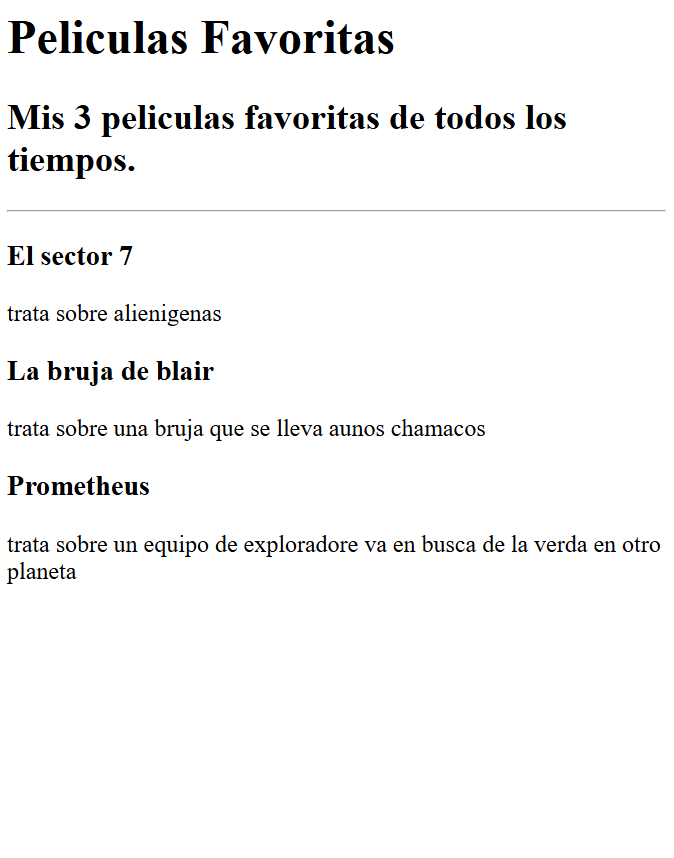
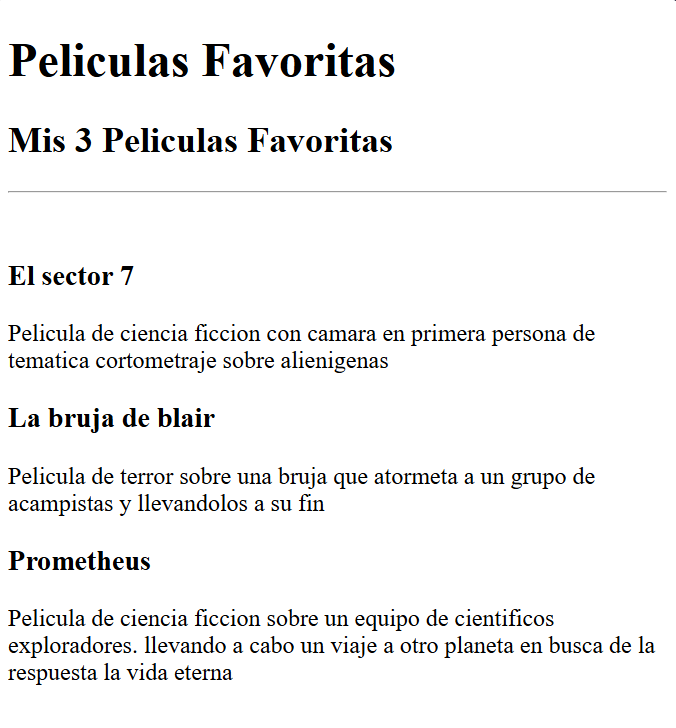
Add files via upload

diff --git a/public/movies1.html b/public/movies1.html
@@ -1,9 +1,20 @@
-<h1>Peliculas Favoritas</h1>
-<h2>Mis 3 Peliculas Favoritas</h2>
-<hr />
-<h3>El sector 7</h3>
-<p>trata sobre alienigenas</p>
-<h3>La bruja de blair</h3>
-<p>trata sobre una bruja que lleva aunos chamacos</p>
-<h3>Prometheus</h3>
-<p>trata sobre un equipo de exploradore va en busca de la verdad en otro planeta</p>
+<!DOCTYPE html>
+<html lang="en">
+<head>
+    <meta charset="UTF-8">
+    <meta name="viewport" content="width=device-width, initial-scale=1.0">
+    <title>Peliculas</title>
+</head>
+<body>
+    <h1>Peliculas Favoritas</h1>
+    <h2>Mis 3 Peliculas Favoritas</h2>
+    <hr />
+    <br />
+    <h3>El sector 7</h3>
+    <p>Pelicula de ciencia ficcion con camara en primera persona de tematica cortometraje sobre alienigenas </p>
+    <h3>La bruja de blair</h3>
+    <p>Pelicula de terror sobre una bruja que atormeta a un grupo de acampistas y llevandolos a su fin</p>
+    <h3>Prometheus</h3>
+    <p>Pelicula de ciencia ficcion sobre un equipo de cientificos exploradores. llevando a cabo un viaje a otro planeta en busca de la respuesta la vida eterna</p>
+</body>
+</html>

diff --git a/public/birthday-invite1.html b/public/birthday-invite1.html
@@ -1,10 +1,21 @@
-<h1>Invitación de Cumpleaños</h1>
-<h2>¡Estás invitado a mi fiesta de cumpleaños!</h2>
-<hr />
-<h3>Detalles del Evento</h3>
-<ul>
-    <li>Fecha: 23 de abril 2007</li>
-    <li>lugar: mi casa</li>
-    <li>Hora: 7:00 PM</li>
-</ul>
-<h2>¡Espero verte allí!</h2>
+<!DOCTYPE html>
+<html lang="es">
+<head>
+    <meta charset="UTF-8">
+    <meta name="viewport" content="width=device-width, initial-scale=1.0">
+    <title>cumpleaños</title>
+</head>
+<body>
+    <h1>Invitación de Cumpleaños</h1>
+    <h2>¡Estás invitado a mi fiesta de cumpleaños!</h2>
+    <hr />
+    <br />
+    <h3>Detalles del Evento</h3>
+    <ul>
+        <li>Fecha: 23 de abril 2060</li>
+        <li>lugar: mi casa</li>
+        <li>Hora: 7:00 PM</li>
+    </ul>
+    <h2>¡Espero verte allí!</h2>
+</body>
+</html>

diff --git a/public/contact.html b/public/contact.html
@@ -1,8 +1,19 @@
-<h1>CONTACTO</h1>
-<hr />
-<h2>Información de Contacto</h2>
-<ul>
-    <li>Correo Electrónico:  <a href="mailto:marlonipia4@gmail.com">marlonipia4@gmail.com</a></li>
-    <li>Instagram: <a href="https://www.instagram.com/kuw_rodwik/" target="_blank">@kuw_rodwik</a></li>
-</ul>
+<!DOCTYPE html>
+<html lang="en">
+<head>
+    <meta charset="UTF-8">
+    <meta name="viewport" content="width=device-width, initial-scale=1.0">
+    <title>contacto</title>
+</head>
+<body>
+    <h1>CONTACTO</h1>
+    <hr />
+    <h2>Información de Contacto</h2>
+    <ul>
+        <li>Correo Electrónico:  <a href="mailto:marlonipia4@gmail.com">marlonipia4@gmail.com</a></li>
+        <li>Instagram: <a href="https://www.instagram.com/kuw_rodwik/" target="_blank">@kuw_rodwik</a></li>
+    </ul>
+</body>
+</html>
+
    

diff --git a/index.html b/index.html
@@ -1,9 +1,9 @@
 <!DOCTYPE html>
-<html lang="en">
+<html lang="es">
 <head>
     <meta charset="UTF-8">
     <meta name="viewport" content="width=device-width, initial-scale=1.0">
-    <title>kuw_R</title>
+    <title>proyecto</title>
 </head>
 <body>
     <h1>Portafolio de Marlon Alexis</h1>
@@ -13,6 +13,7 @@
     <img src="./assets/images/imagen pelicula.png" height="200" alt="vista previa del proyecto de clasificación de películas"/>
     <h2><a href="./public/birthday-invite1.html">Invitación de Cumpleaños</a></h2>
     <img src="./assets/images/image_birthday.png" height="200" alt="vista previa del proyecto de invitacion de cumpleaños"/>
+    <h2><a href="./public/about.html">Sobre Mi</a></h2>
     <h2><a href="./public/contact.html">Contacto</a></h2>
 </body>
 </html>

diff --git a/public/about.html b/public/about.html
@@ -1,0 +1,17 @@
+<!DOCTYPE html>
+<html lang="en">
+<head>
+    <meta charset="UTF-8">
+    <meta name="viewport" content="width=device-width, initial-scale=1.0">
+    <title>sobre mi</title>
+</head>
+<body>
+    <h1>Sobre Mi</h1>
+    <hr />
+    <h2>como persona:</h2>
+    <p>
+        soy una persona que le gusta salir con mi novia, aprender cosas nuevas, me gusta mucho la tecnologia, la programacion.
+        En mi tiempo libre me gusta jugar videojuegos, el arte, ver peliculas y tambien me gusta mucho la musica.
+    </p>
+</body>
+</html>
